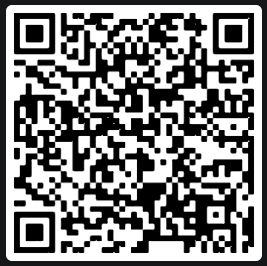
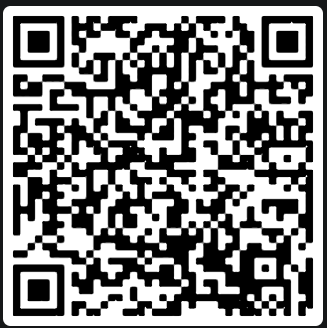
updated task list and user manual

diff --git a/user-guide/user-manual.md b/user-guide/user-manual.md
@@ -2,38 +2,128 @@
 
 ## Demonstration
 
-Go through a demonstration, putting the radar in debug mode, etc. and
+### Equipment and Apps
+
+Please check that you have the following equipment before continuing reading this manual:
+
+- TactiHelm helmet (incl. battery and rain-cover)
+- Bike radar (incl. bike attachment)
+- Conambo Bluetooth Headset
+- USB-A to USB-C cable and charger
+- USB-A to Micro-USB cable
+- Bike phone holder
+- Google Pixel 4 Android phone (if applicable)
+
+Additionally, make sure you have the following applications downloaded on your mobile device:
+
+- TactiHelm Controller
+- Ride with GPS
+- any voice recorder app (Google Record works well)
+
+For any help with downloading these apps, please see [Downloading Apps](#downloading-apps).
+
+If you have been given a temporary mobile device, please make sure the evaluator has given you the pin.
+
+### Before Your Commute
+
+Before each commute, please do the following steps in the order they are described:
+
+1. Firstly, please make sure your bike radar, headset, and mobile device are fully charged.
+2. Next make sure the bike phone holder is attached to the handlebars of your bike.
+3. Turn on the helmet an put it on your head (see [Turning On/Off the Helmet](#turning-onoff-the-helmet)).
+4. Make sure the bike radar is attached to your bike (see [Attaching the Bike Radar](#attaching-the-bike-radar)) and make sure it is turned on (see [Turning On/Off the Bike Radar](#turning-onoff-the-bike-radar)).
+5. Turn on the headset (see [Turning On/Off the Headset](#turning-onoff-the-headset)), put it on, and use Bluetooth on your mobile device to connect to it (see [Using the Headset](#using-the-headset)).
+6. Once the headset is connected to your mobile device, to start recording audio, open your voice recorder app and press 'Start Recording' (see [Using the Headset](#using-the-headset)).
+7. Use the TactiHelm Controller on your mobile device to Bluetooth connect to the helmet and bike radar (see [Connecting to the Helmet and Bike Radar](#connecting-to-the-helmet-and-bike-radar)).
+8. Once the previous steps are complete and you are ready to start your commute:
+   1. please press 'Start Ride' on the Ride with GPS app to start recording your route (see [Recording Your Route](#recording-your-route)).
+   2. please press 'Start Ride' on the TactiHelm Controller app to start receiving vibrations to your helmet (see [Starting a Ride](#starting-a-ride)).
+9. You can now put your mobile device in the phone holder and start cycling. Make sure to leave your screen on and on the controller app.
+
+### After Your Commute
+
+Once you have finished your commute, please do the following steps in the order they are described:
+
+1. Firstly, press 'Stop Ride' on the TactiHelm controller app to stop receiving vibrations (see [Starting a Ride](#starting-a-ride)) and disconnect from the helmet and bike radar (see [Connecting to the Helmet and Bike Radar](#connecting-to-the-helmet-and-bike-radar)).
+2. Press 'Stop Ride' on the Ride with GPS app, and make sure to save your route (see [Recording Your Route](#recording-your-route)).
+3. On your voice recorder app, stop the audio recording (see [Using the Headset](#using-the-headset)) and disconnect and turn off the headset.
+4. Turn off the bike radar (see [Turning On/Off the Bike Radar](#turning-onoff-the-bike-radar)) and detach it from your bike (see [Attaching the Bike Radar](#attaching-the-bike-radar)).
+5. Remove the helmet from your head and turn it off (see [Turning On/Off the Helmet](#turning-onoff-the-helmet)).
+6. Finally, make sure to charge your bike radar, headset, and mobile device before your next commute.
 
 ## Downloading Apps
 
 ### TactiHelm Controller
 
-The TactiHelm controller application is how you can connect to the helmet and bike radar and start receiving vibrations. The app is needed to allow the bike radar to communicate with the helmet: when the radar detects a vehicle, it sends this information to the app, the app then sends this information to the helmet.
+The TactiHelm Controller application is how you can connect to the helmet and bike radar and start receiving vibrations. The app is needed to allow the bike radar to communicate with the helmet: when the radar detects a vehicle, it sends this information to the app, the app then sends this information to the helmet.
 
 **Note that this app only works on Android.**
 
 There are two ways to install the app:
 
 - The easiest way is to use the camera on the device you wish to install the app and scan this [QR Code](./controller-download-qr-code.png).
-- The other way is to use open the following link on the device you wish to install the app: [Download TactiHelm Controller](https://expo.dev//accounts/lewis.trundle/projects/tactihelm-controller/builds/9a6f04ec-9146-4f41-a033-6e15cd978b0e).
+- The other way is to use open the following link on the device you wish to install the app: [Download TactiHelm Controller](https://expo.dev//accounts/lewis.trundle/projects/tactihelm-controller/builds/a7e4de50-f2a2-45e2-8f47-f96d860eac1d).
 
 Press the 'Install' button and press 'Okay' on the notification which appears which warns you the file may be harmful. The installation file will not start installing. Once this file has finished downloading, press on the file to finish installing the app (you may have to adjust your security settings).
 
 ### Voice Recorder App
 
-A voice recorder application is needed to record your think-aloud evaluation during your commute. There are many viable options, however, we've gone for [Easy Voice Recorder](https://play.google.com/store/apps/details?id=com.coffeebeanventures.easyvoicerecorder&hl=en&gl=US)
+A voice recorder application is required to record your think-aloud evaluation and your post-evaluation interview. There are many viable options, however, for this study we'll be using [Google Recorder](https://recorder.google.com/).
 
 ### Ride with GPS
 
 The Ride with GPS application is needed to record your GPS data during your commute. The mobile application can be downloaded on your device using the following link: [Ride with GPS Download](https://play.google.com/store/apps/details?id=com.ridewithgps.mobile&hl=en&gl=US). The web version can be accessed here: [www.ridewithgps.com](https://ridewithgps.com/).
 
-CREATE A USER GUIDE WITH THE FOLLOWING:
+## Attaching Equipment
 
-- shows how to turn on and off helmet
-- turn on and off sensor
-- turn on and off headpiece
+### Attaching the Bike Radar
+
+The bike radar can be attached to the back of your bike by using the provided attachment as seen in the video.
+
+### Attaching the Phone Holder
+
+The phone holder can be attached to the handlebars of your bike as seen in the video.
+
+## Turning On/Off the Equipment
+
+### Turning On/Off the Helmet
+
+To turn on or off the helmet, first you'll need to take off the rain cover. Please take off the rain cover from the front of the helmet. The helmet can then be turned on by connecting the cable connected to the 9V battery to the Arduino DC Barrel Power Jack; the helmet is turned off by removing the connected cable. Please make sure to put the rain cover back on the helmet, by putting it on from the back first and tightening it as much as you can
+
+### Turning On/Off the Bike Radar
+
+To turn on or off the sensor, hold the power button for 3s as seen in the video.
+
+### Turning On/Off the Headset
+
+The headset can be turned on and off by holding the power button for 3 seconds as seen in the video.
+
+## Using the TactiHelm Controller
+
+### Connecting to the Helmet and Bike Radar
+
+To connect to the helmet and bike radar, press the "Connect to Helmet/Sensor" buttons as seen in the video. Your device will then use Bluetooth to search for each device (please note that searching for the helmet may take up to 60 seconds).
+
+Once your device has finished searching, a list of available devices will be produced on your screen. To connect to the bike radar, select the device with the name 'RTL515' and press 'Connect'. To connect to the helmet, select the device with the name 'HC-05' and press 'Connect'. Once connected, you may navigate back to the home screen (please note that connection may take a few seconds).
+
+To disconnect from these devices, simply press the "Disconnect Helmet/Sensor" buttons and press 'Disconnect'.
+
+### Starting a Ride
+
+Once you are ready to start cycling and receiving vibrations from the helmet, select the 'Start Ride' button on the home screen, as seen in the video. To stop receiving vibration, simply press the 'Stop Ride' button.
+
+**Important: the helmet will only receive vibrations while your mobile device is on, unlocked, and on the TactiHelm Controller app.**
+
+## Using the Headset
+
+To connect to the headset, use your mobile device and select the Bluetooth device named 'K18'. Once this is connected, you can start recording audio by navigating to your voice recorder app and selecting 'Record Audio'. Press the same button again to stop recording audio.
+
+## Recording your Route
+
+To record your route data, open the Ride with GPS app and simply press 'Start Ride' to start recording your route. To stop recording, press the 'Stop Ride' button.
+
+## Miscellaneous
+
 - change lights of sensor.
-- connect to helmet and sensor on app
-- start and end a ride on app
 - request permissions
 - manually test far, near, and imminent vibrations

diff --git a/user-study/task-list.md b/user-study/task-list.md
@@ -13,66 +13,44 @@ Before proceeding with any tasks, please ensure you have fully read the [informa
 
 1. cycle from **work to home** using TactiHelm and performing think-aloud.
 2. cycle from **home to work** using TactiHelm and performing think-aloud.
-3. complete questionnaires and interview and return equipment.
-4. cycle from **home to work** normally and complete NASA-TLX questionnaire.
+3. complete questionnaire.
+4. complete interview and return equipment.
+5. cycle from **home to work** normally and complete NASA-TLX questionnaire.
 
-Task 1 will be performed the day you are given TactiHelm. Tasks 2 and 3 will be performed the day after you are given TactiHelm. Task 4 can be performed any day within three days of performing the previous tasks. Please note that this experiment is not a test of your ability.
+Task 1 will be performed the day you are given TactiHelm. Tasks 2, 3, and 4 will be performed the day after you are given TactiHelm. Task 4 can be performed any day within seven days of performing the previous tasks. Please note that this experiment is not a test of your ability.
 
-## Task 1
+## Task 1: First Commute
 
 Your first task is to cycle your normal commute, from your workplace to your residence, whilst using the TactiHelm system. While performing this task, please ensure to perform a think-aloud evaluation, as previously described.
 
-**Before proceeding with Task 1, please carefully read through all the following steps to ensure you know how to perform this task.**
+**Before proceeding with Task 1, please carefully read through the [Before Your Commute](../user-guide/user-manual.md#before-your-commute) and [After Your Commute](../user-guide/user-manual.md#after-your-commute) sections of the user manual.**
 
-Before your commute:
-
-- Turn on the helmet and bike radar.
-- Use the controller app to connect to the helmet and bike radar.
-- Turn on the headpiece to start recording audio.
-- Once the previous steps are complete and you are ready to start your commute:
-  - press 'Start Ride' on the 'tactihelm-controller' app.
-  - press 'Start Ride' on the 'Ride with GPS' app.
-
-After your commute:
-
-- Once you have completed your commute, press 'Stop Ride' on both the 'Ride with GPS' app and 'tactihelm-controller' app.
-- Turn off the helmet, bike radar, and headpiece.
-
-## Task 2
+## Task 2: Second Commute
 
 Your second task is to again cycle your normal commute, this time from your residence to your workplace, whilst using the TactiHelm system. While performing this task, please ensure to perform a think-aloud evaluation, as previously described.
 
-**Before proceeding with Task 2, please carefully read through all the following steps to ensure you know how to perform this task.**
+**Before proceeding with Task 2, please carefully read through the [Before Your Commute](../user-guide/user-manual.md#before-your-commute) and [After Your Commute](../user-guide/user-manual.md#after-your-commute) sections of the user manual.**
 
-Before your commute:
+Once you have completed task 2, please immediately commence to task 3.
 
-- Turn on the helmet and bike radar.
-- Use the controller app to connect to the helmet and bike radar.
-- Turn on the headpiece to start recording audio.
-- Once the previous steps are complete and you are ready to start your commute:
-  - press 'Start Ride' on the 'tactihelm-controller' app.
-  - press 'Start Ride' on the 'Ride with GPS' app.
+## Task 3: Questionnaire
 
-After your commute:
+After completion of task 2, your third task is to complete the provided questionnaire.
 
-- Once you have completed your commute, press 'Stop Ride' on both the 'Ride with GPS' app and 'tactihelm-controller' app.
-- Turn off the helmet, bike radar, and headpiece.
-- Immediately commence to task 3.
+- [Post-experiment Questionnaire](https://uofg.qualtrics.com/jfe/form/SV_0N8G0Wckys2GCge)
 
-## Task 3
+You will be asked a variety of questions regarding your two commutes. Some questions will be regarding both of them, while other questions will only be about your second commute. Please complete this questionnaire as soon as possible after your second commute, so that your experience is still fresh in your mind. Please answer truthfully and honestly.
 
-After completion of task 2, your third task is to complete the two provided questionnaires.
+## Task 4: Interview
 
-The first questionnaire to complete is the NASA-TLX questionnaire, as previously described in the [information sheet](./information-sheet#nasa-tlx-questionnaire).
+After your commutes and completion of the questionnaire, you will be asked to come in for an interview with the evaluator. This will be relatively short (no more than 15 minutes) and is just for us to more deeply understand your experience with TactiHelm.
 
-!!!!!
-STILL TO COMPLETE
-!!!!!
+**Please bring all the equipment with you to return.**
 
-**Please ensure you have completed the two questionnaires before moving on.**
+## Task 5: Final Commute and Questionnaire
 
-## Task 4
+Your final task is to complete one more commute but without TactiHelm. Please complete this commute within seven days of your interview. Immediately after your commute, we would ask that you complete part of the questionnaire again.
 
-!!!!!
-STILL TO COMPLETE
-!!!!!
+- [Post-experiment Questionnaire](https://uofg.qualtrics.com/jfe/form/SV_0N8G0Wckys2GCge)
+
+Make sure to select the option stating that you have just completed your final commute.
